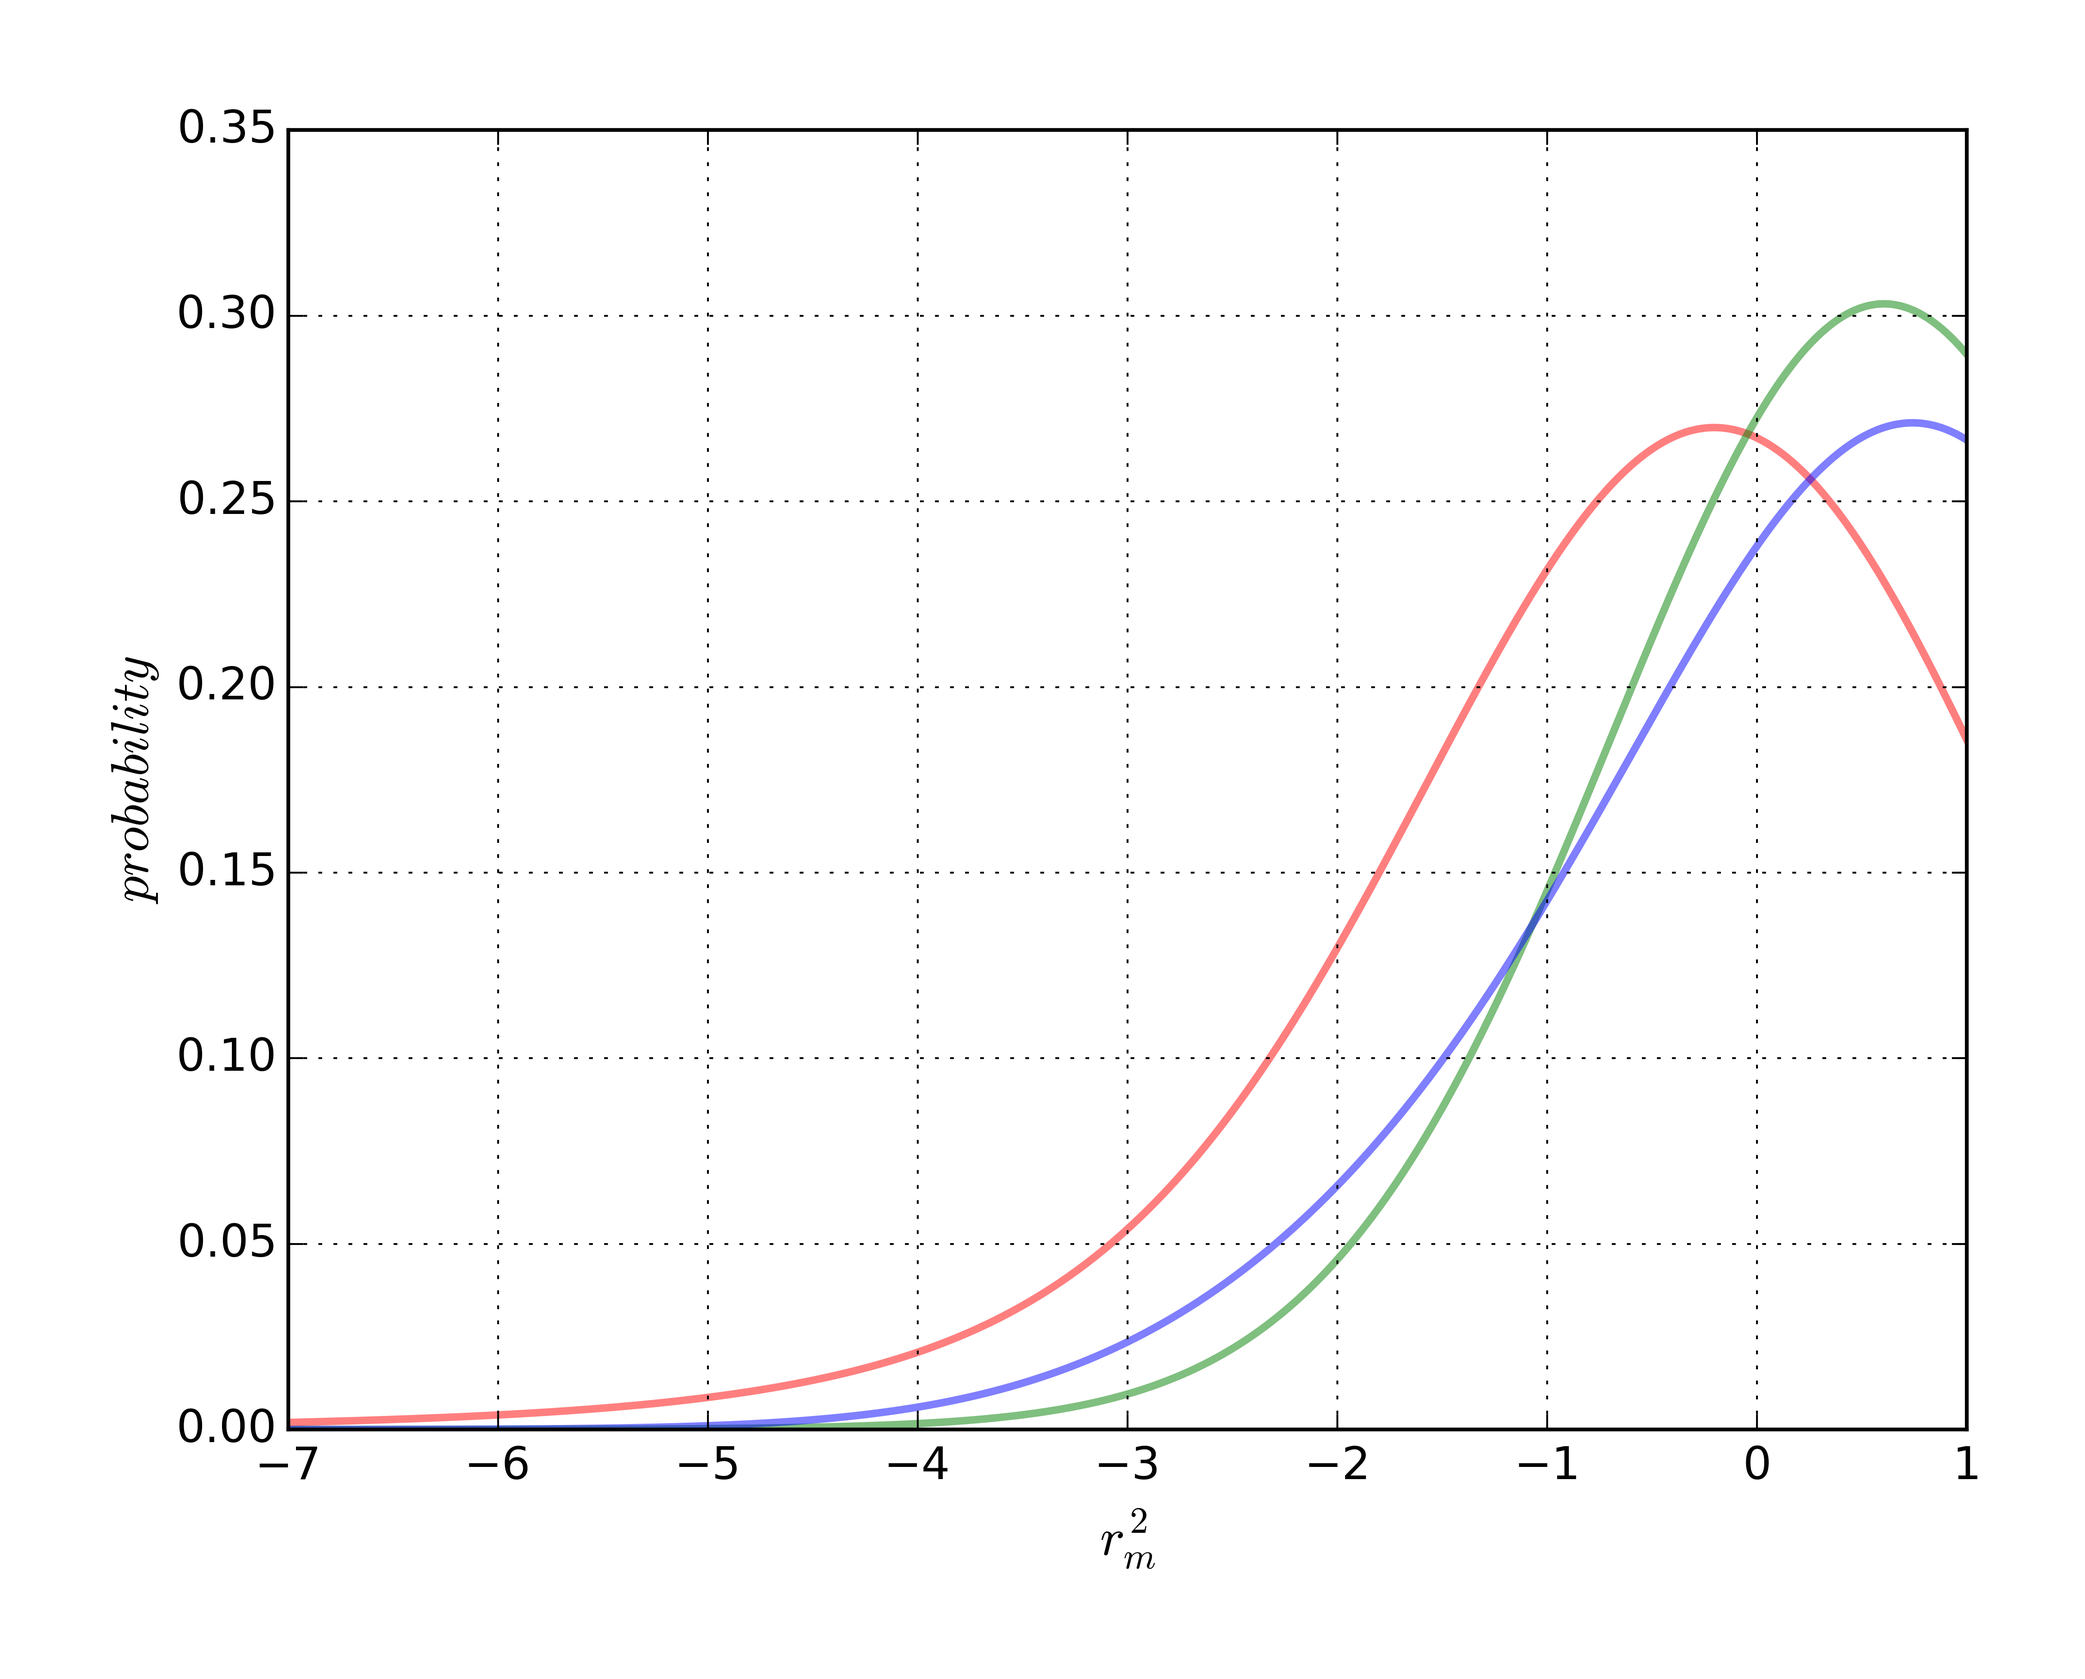
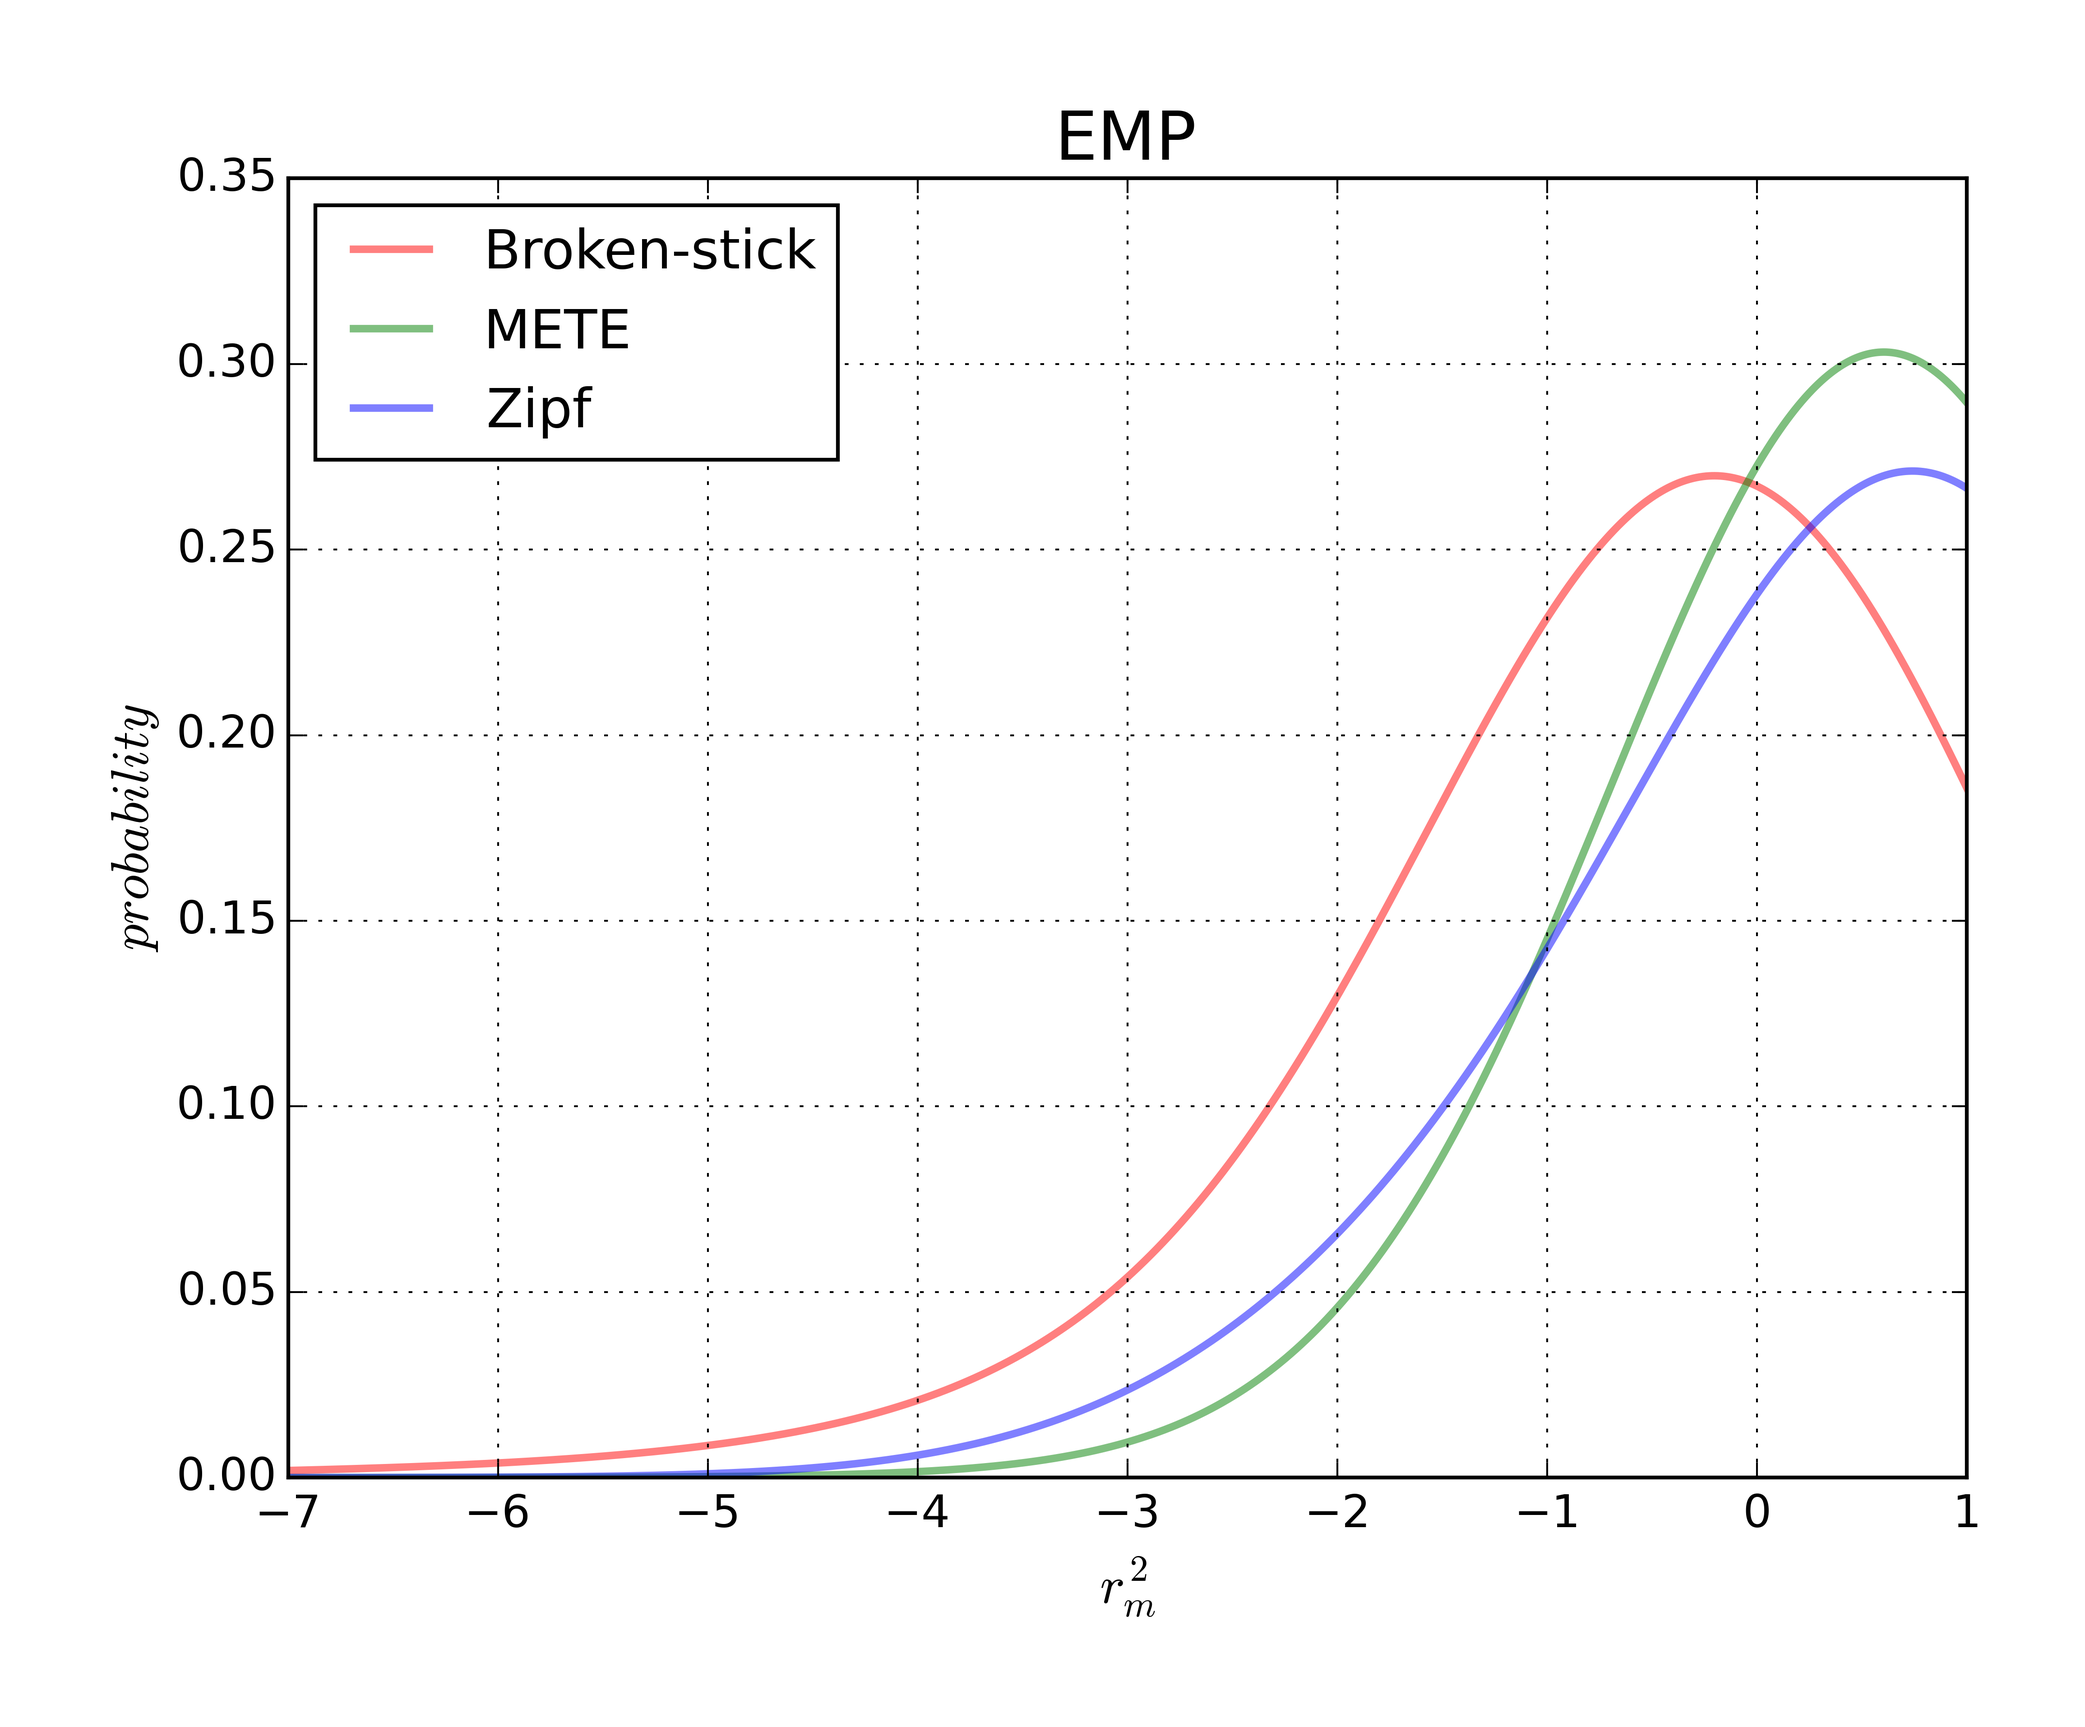
Fixed kde labels

diff --git a/Python/METE_KDEs.py b/Python/METE_KDEs.py
@@ -61,8 +61,13 @@ def N_r2_KDE(datasets, methods):
             IN2 = gf.import_NSR2_data(mydir + 'NSR2/' + method+'_'+dataset+'_NSR2.txt')
             r2s = ((IN2["R2"]))
             #r2s = r2s[(r2s >= -1) & (r2s <= 1)]
-            #plt.hist(r2s, bins, alpha=0.5, label = method, color = colors[j])
-            plt.plot(IN1.Grid, IN1.PDF, linewidth=2, alpha=0.5, color =colors[j])
+            if j == 0:
+                ax.plot(IN1.Grid, IN1.PDF, linewidth=2, alpha=0.5, color =colors[j], label='Broken-stick')
+            elif j == 1:
+                ax.plot(IN1.Grid, IN1.PDF, linewidth=2, alpha=0.5, color =colors[j], label='METE')
+            elif j == 2:
+                ax.plot(IN1.Grid, IN1.PDF, linewidth=2, alpha=0.5, color =colors[j], label='Zipf')
+
             #plt.hist(r2s, 30, stacked = True, color = colors[j],   alpha=0.3, normed= True)
             #ax.hist(r2s, 50,color = colors[j],  alpha=0.3)
             #n, bins, patches = plt.hist(r2s, 50, normed=1, facecolor='green', alpha=0.75)
@@ -73,11 +78,41 @@ def N_r2_KDE(datasets, methods):
         print np.min(IN1.PDF)
         figure_name = '../figures/' + str(dataset) + '_KDE.png'
         plt.grid(True)
+        ax.legend(loc='upper left', shadow=False)
         plt.xlabel(r'$r^{2}_{m}$', fontsize = 14)
         plt.ylabel(r'$probability$', fontsize = 14)
+        if i == 0:
+            plt.title('HMP', fontsize = 18)
+        if i == 1:
+            plt.title('EMP', fontsize = 18)
+        if i == 2:
+            plt.title('MG-RAST', fontsize = 18)
         plt.xlim(-7, 1)
         plt.savefig(figure_name, bbox_inches = "tight", pad_inches = 0.4, dpi = 600)
         plt.close()
+
+#def N0_vs_r2(datasets, methods):
+#    for i, dataset in enumerate(datasets):
+#        fig, ax = plt.subplots()
+#        max_x = 0
+#        min_x = 0
+#        for j, method in enumerate(methods):
+#            IN = gf.import_NSR2_data(mydir + 'NSR2/' + method+'_'+dataset+'_NSR2.txt')
+#            r2s = ((IN["R2"]))
+#            N = ((IN["N"]))
+#            ax.scatter(N, r2s, linewidth=2, alpha=0.5, color =colors[j])
+#        figure_name = '../figures/' + str(dataset) + '_N0_vs_r2.png'
+#        plt.grid(True)
+        #ax.legend(loc='upper left', shadow=False)
+        #plt.xlabel(r'$r^{2}_{m}$', fontsize = 14)
+        #plt.ylabel(r'$probability$', fontsize = 14)
+        #plt.xlim(-7, 1)
+#        plt.savefig(figure_name, bbox_inches = "tight", pad_inches = 0.4, dpi = 600)
+#        plt.close()
+
+
+### Next: code tp randomly resample
+
 
 
 #generate_kde_to_file(datasets, methods)
